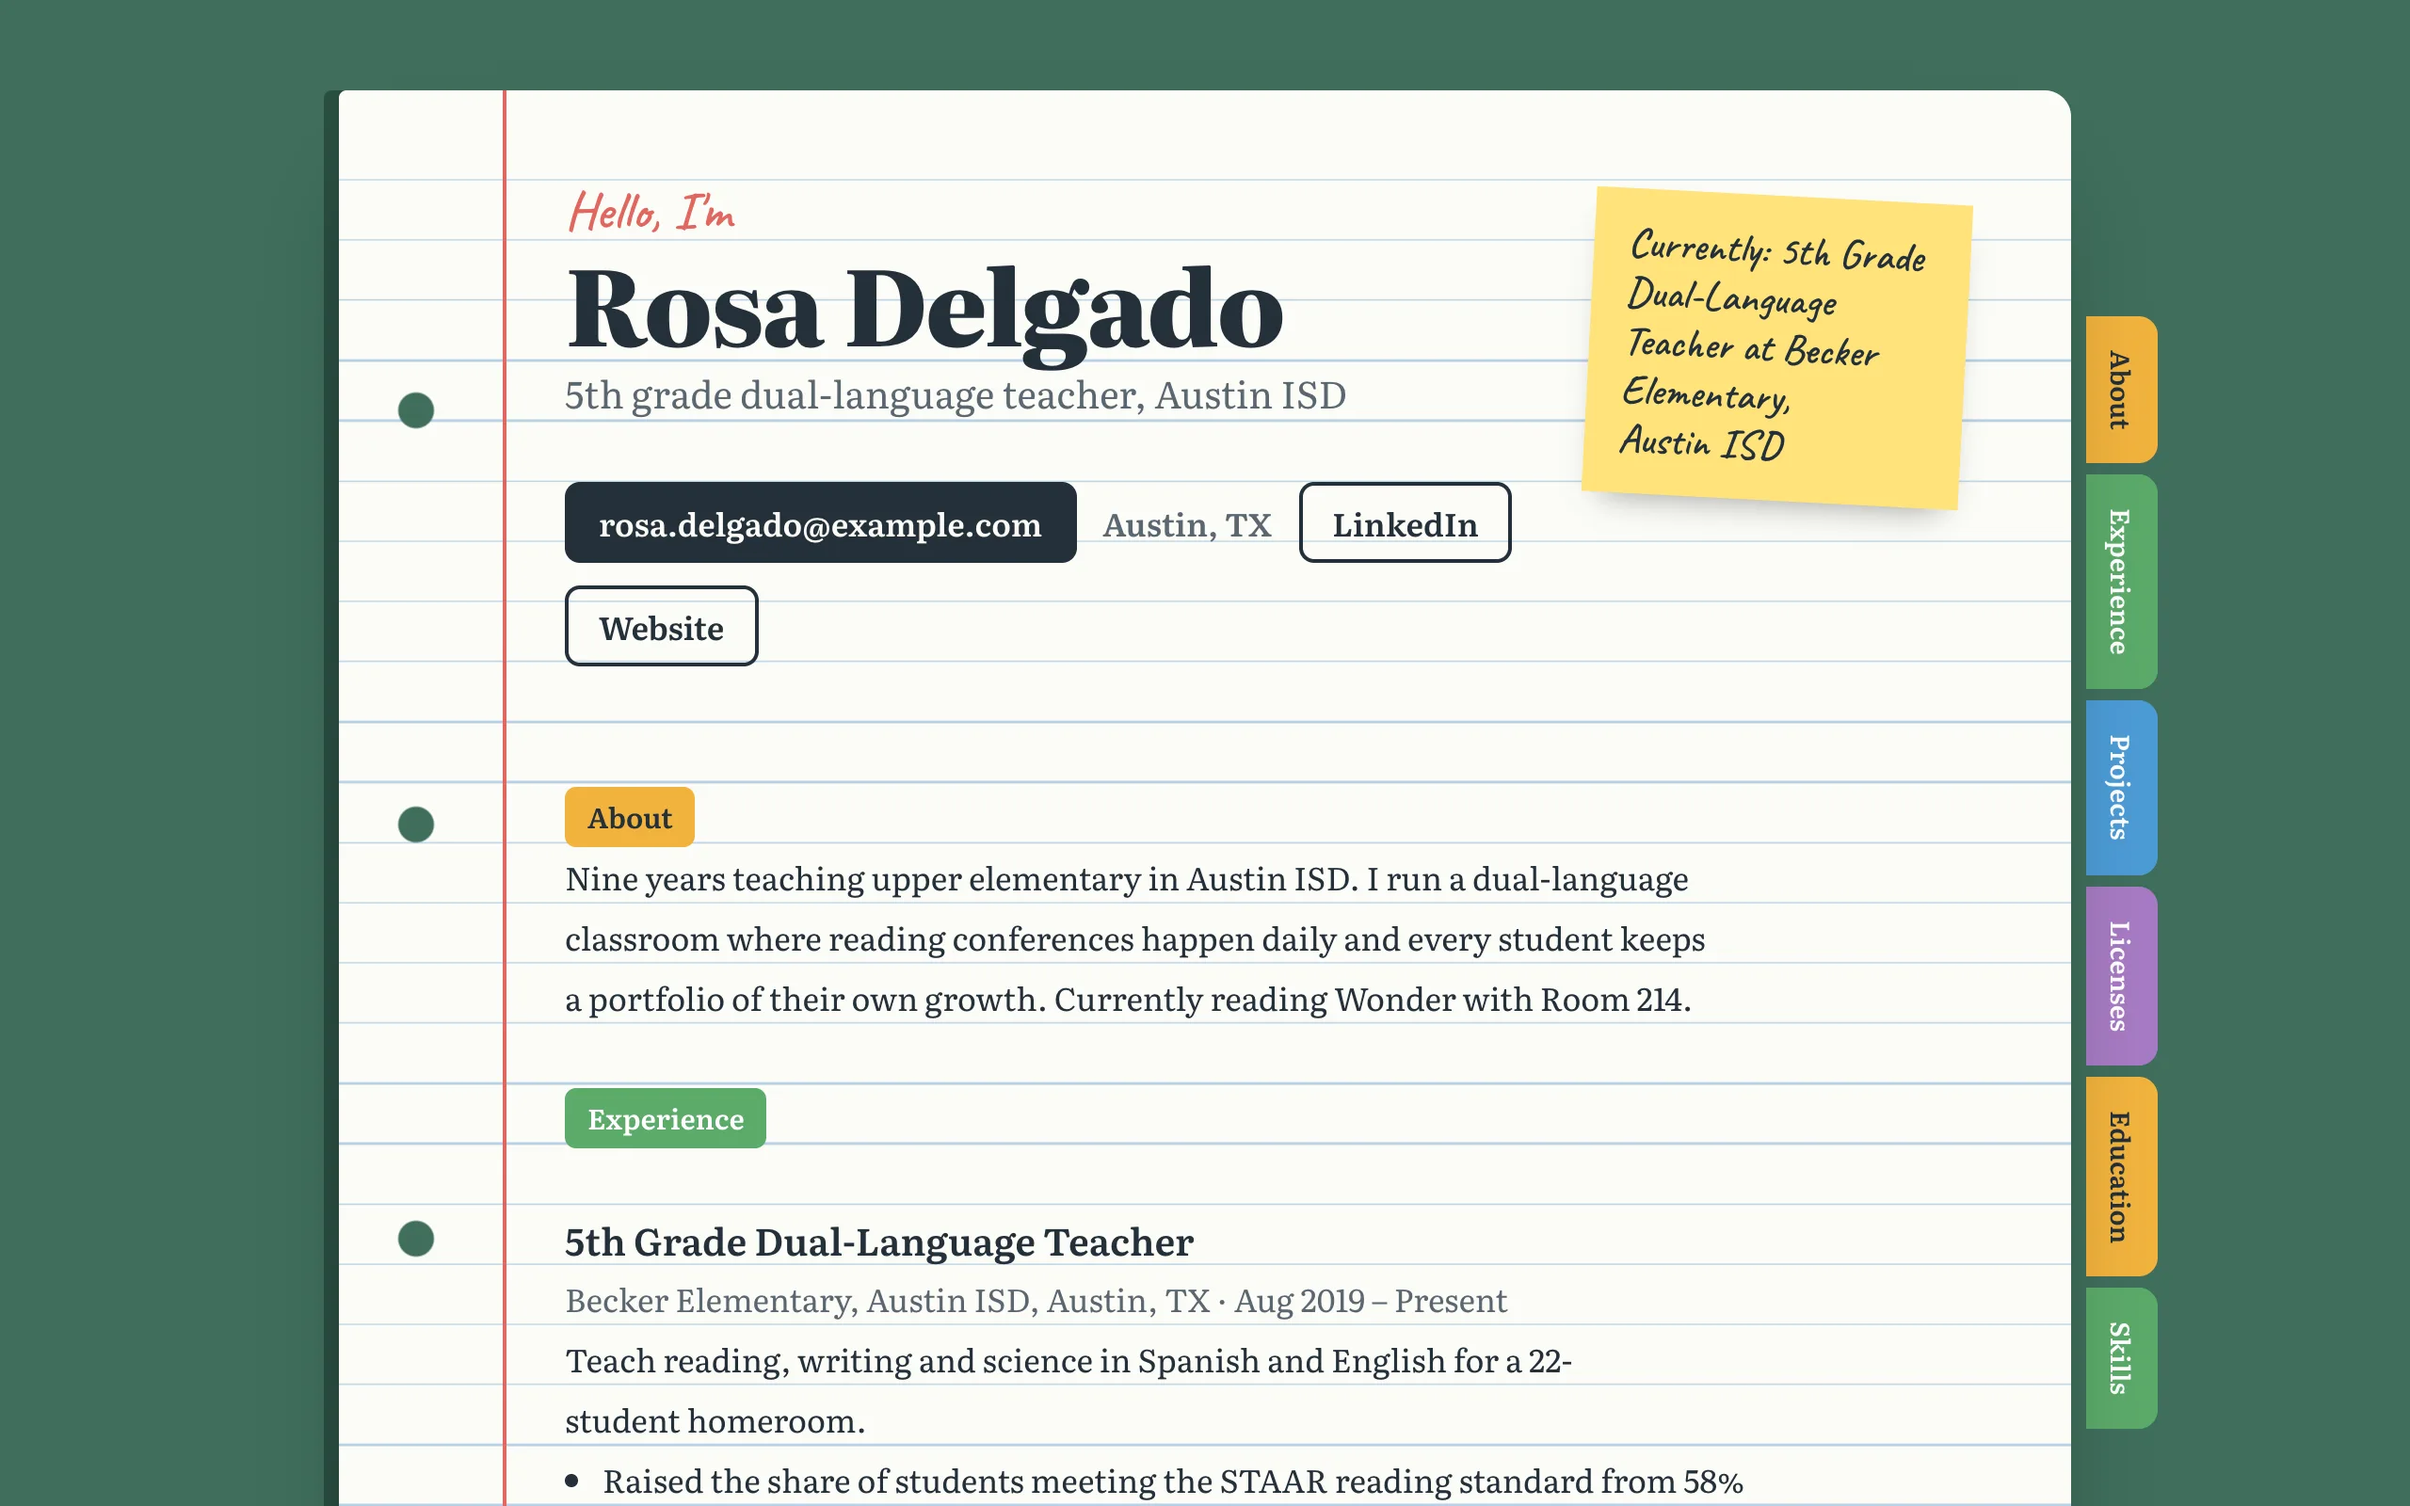
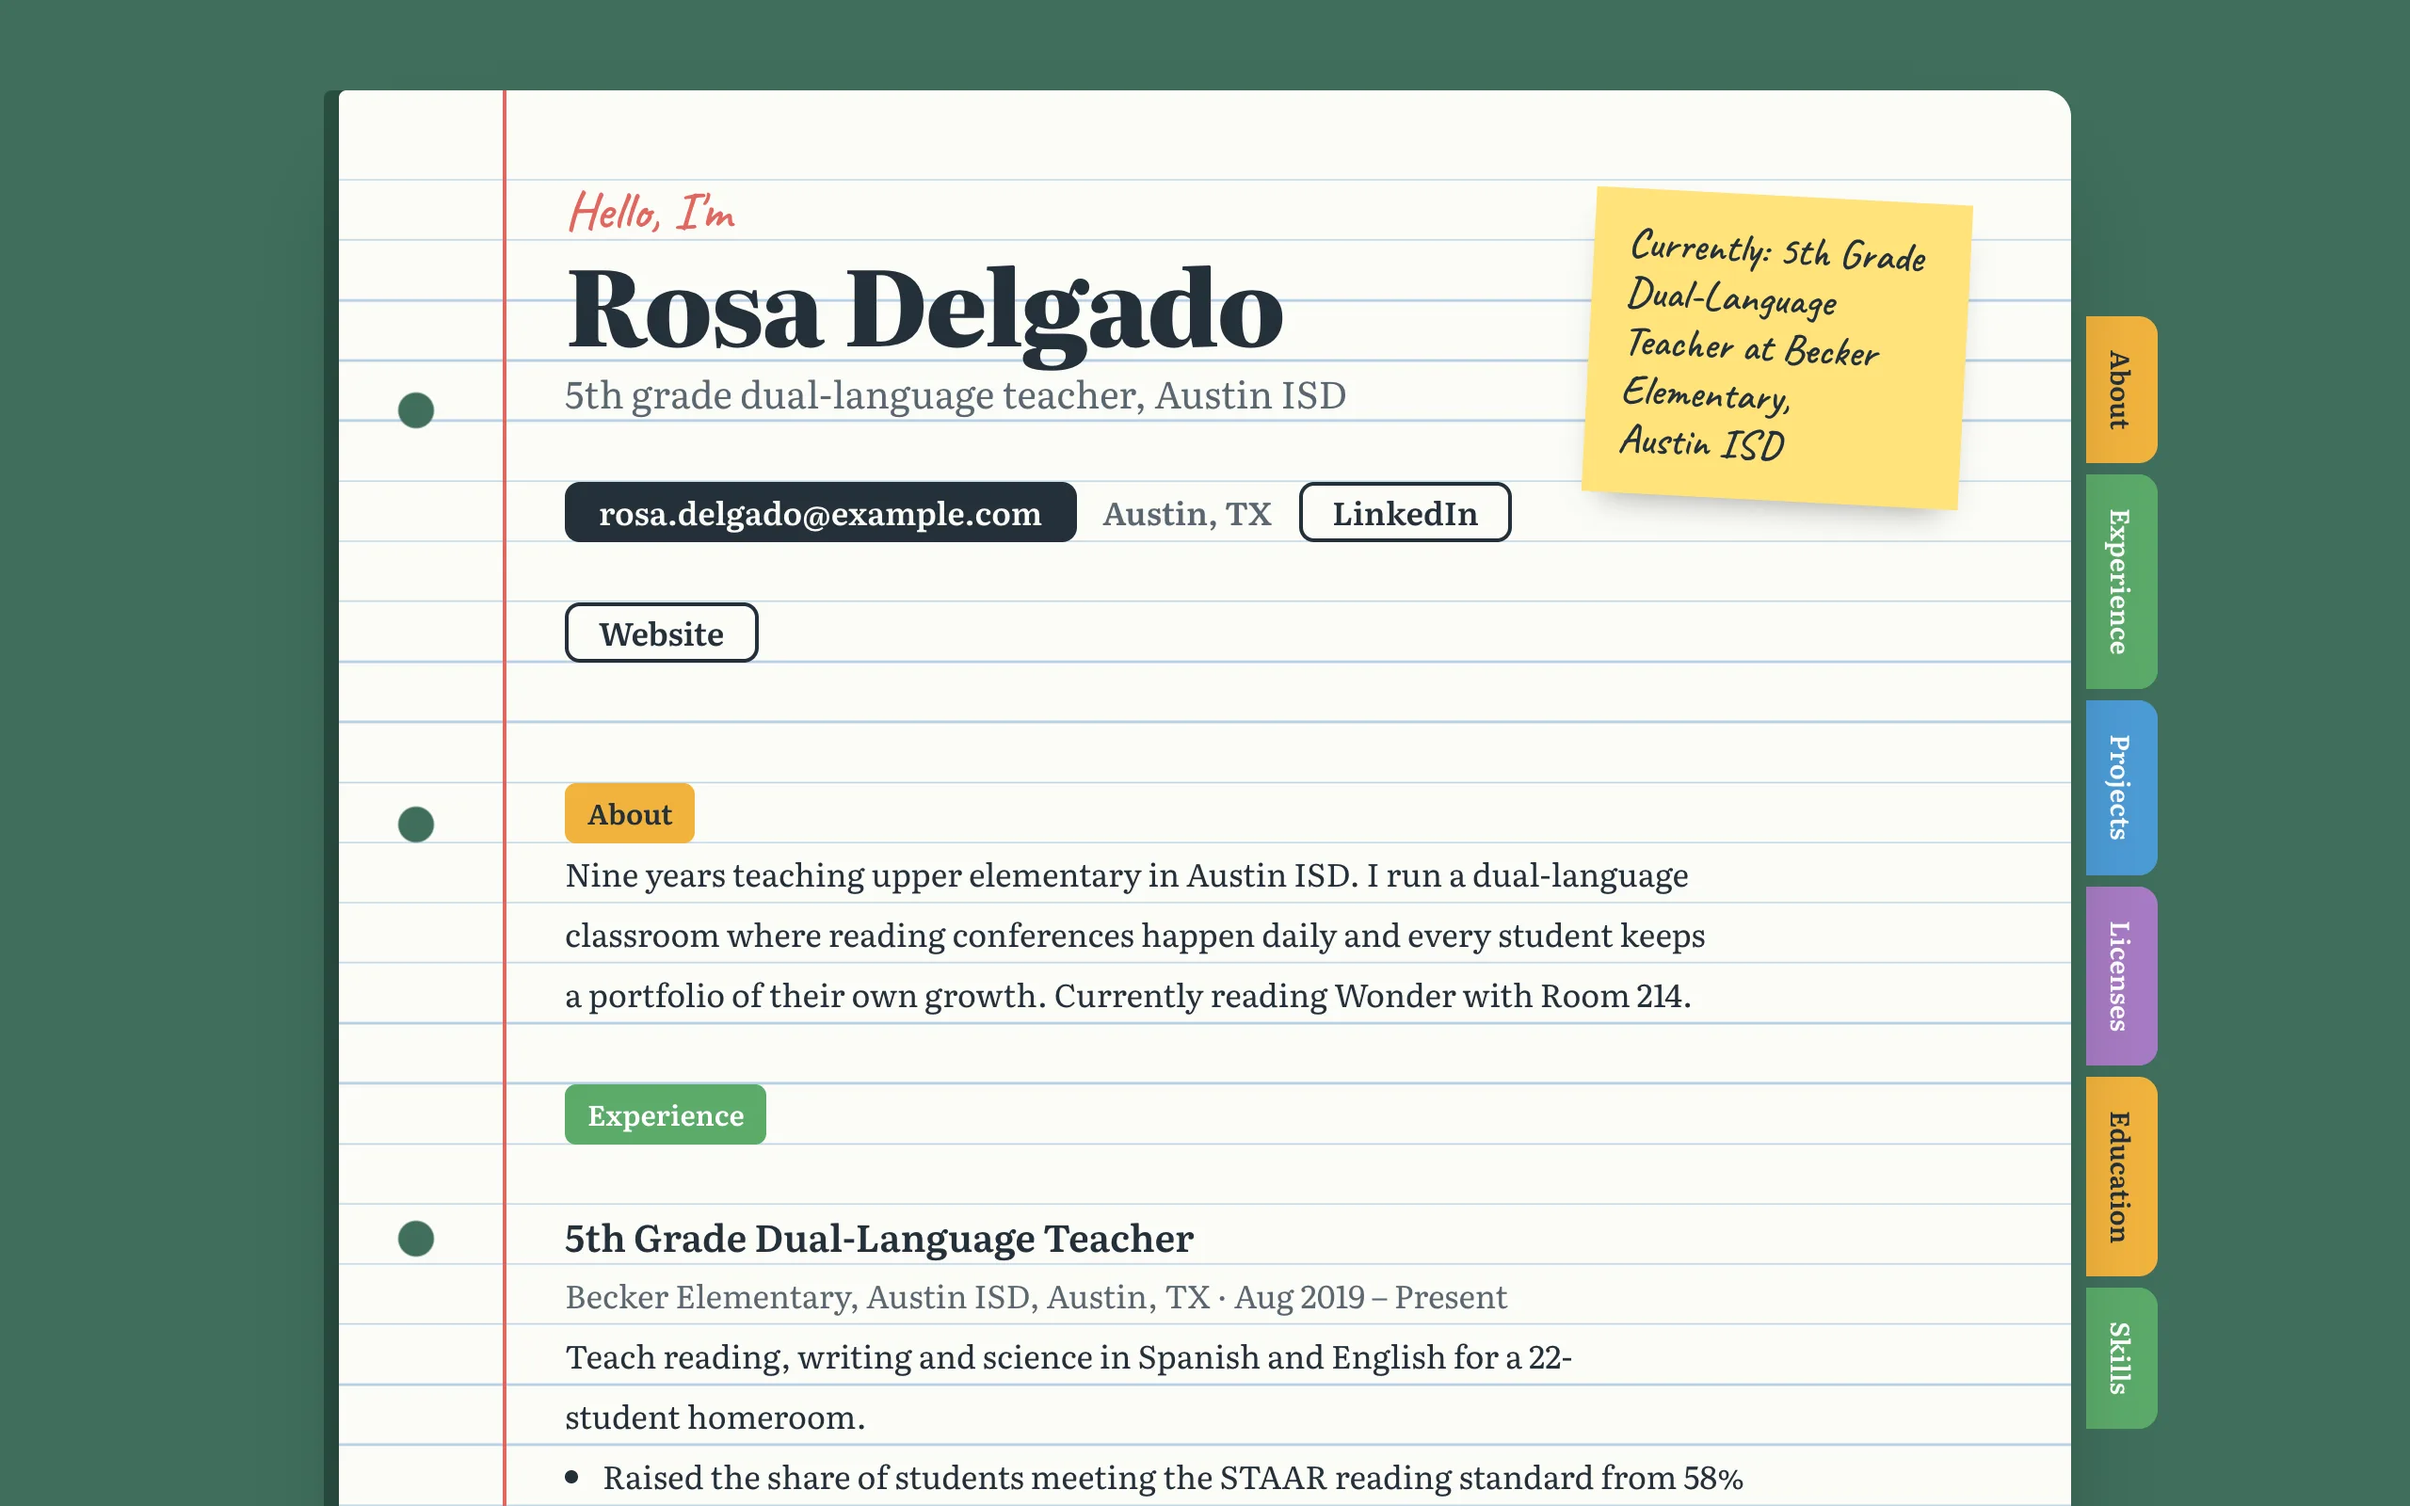
fix(templates): align Lesson Plan to its ruled lines and stop email wrapping mid-word

diff --git a/components/templates/LessonPlan.tsx b/components/templates/LessonPlan.tsx
@@ -8,6 +8,8 @@ import { TemplateFontLinks } from "./shared/TemplateFontLinks";
 // A teacher's planner: the resume is written on ruled paper clipped to a green desk, with index
 // tabs on the page edge that jump to the sections that actually render. Every line box stays 32px
 // tall, so wrapped text keeps landing on the rules (the mobile header scales by whole lines too).
+// The avatar, contact buttons and section pills are sized in whole 32px lines for the same reason,
+// and a contact label too long for its button clips with an ellipsis instead of wrapping mid-word.
 
 const LINK_REL = "ugc nofollow noopener noreferrer";
 
@@ -92,15 +94,15 @@ export const LessonPlan: React.FC<TemplateProps> = ({ content, profile }) => {
         .lp-sticky { position: absolute; right: 56px; top: 56px; width: 200px; padding: 16px 18px; transform: rotate(3deg); background: #FFE37A; font: 600 22px/26px 'Caveat', cursive; box-shadow: 0 10px 18px -10px rgba(0,0,0,.4); }
         .lp-head { padding-bottom: 32px; }
         .lp-hello { font: 600 28px/32px 'Caveat', cursive; color: #E0675F; }
-        .lp-name-row { display: flex; align-items: center; gap: 24px; }
-        .lp-avatar { flex: none; width: 88px; height: 88px; object-fit: cover; border: 3px solid #24303A; border-radius: 4px; background: #FFFFFF; }
+        .lp-name-row { display: flex; align-items: flex-start; flex-wrap: wrap; gap: 24px; }
+        .lp-avatar { flex: none; width: 96px; height: 96px; object-fit: cover; border: 3px solid #24303A; border-radius: 4px; background: #FFFFFF; }
         .lp-root h1.lp-name { font-weight: 800; font-size: 56px; line-height: 64px; letter-spacing: -.02em; }
         .lp-sub { font-size: 20px; color: #5B6770; }
-        .lp-cta { display: flex; gap: 12px; margin-top: 32px; flex-wrap: wrap; }
-        .lp-root .lp-btn { line-height: 1; padding: 13px 18px; border-radius: 8px; text-decoration: none; font-weight: 600; background: #24303A; color: #FCFCF8; overflow-wrap: anywhere; }
+        .lp-cta { display: flex; flex-wrap: wrap; gap: 32px 12px; margin-top: 32px; }
+        .lp-root .lp-btn { line-height: 32px; padding: 0 18px; border-radius: 8px; text-decoration: none; font-weight: 600; background: #24303A; color: #FCFCF8; max-width: 100%; overflow: hidden; text-overflow: ellipsis; white-space: nowrap; }
         .lp-root .lp-btn ~ .lp-btn { background: transparent; color: #24303A; box-shadow: inset 0 0 0 2px #24303A; }
-        .lp-plain { padding: 13px 2px; line-height: 1; font-weight: 600; color: #5B6770; overflow-wrap: anywhere; }
-        .lp-h2 { font-size: 15px; font-weight: 600; display: inline-block; padding: 0 12px; border-radius: 6px; line-height: 32px; margin-top: 32px; }
+        .lp-plain { padding: 0 2px; line-height: 32px; font-weight: 600; color: #5B6770; max-width: 100%; overflow: hidden; text-overflow: ellipsis; white-space: nowrap; }
+        .lp-h2 { font-size: 15px; font-weight: 600; display: block; width: fit-content; padding: 0 12px; border-radius: 6px; line-height: 32px; margin-top: 32px; }
         .lp-entry { padding-top: 32px; }
         .lp-root .lp-entry h3 { font-size: 20px; line-height: 32px; font-weight: 600; }
         .lp-meta { color: #5B6770; }
@@ -116,7 +118,9 @@ export const LessonPlan: React.FC<TemplateProps> = ({ content, profile }) => {
           .lp-tabs, .lp-sticky { display: none; }
           .lp-page { padding: 32px 24px 48px 72px; background-image: linear-gradient(90deg, transparent 55px, #E0675F 55px 57px, transparent 57px), repeating-linear-gradient(transparent 0 31px, #B9D0E6 31px 32px); }
           .lp-page::before { left: 14px; }
-          .lp-root h1.lp-name { font-size: 40px; line-height: 48px; }
+          .lp-root h1.lp-name { font-size: 40px; line-height: 64px; }
+          .lp-cta { flex-direction: column; align-items: stretch; gap: 32px; }
+          .lp-plain { padding: 0 18px; }
           .lp-cols { grid-template-columns: 1fr; }
         }
       `}</style>
@@ -146,8 +150,8 @@ export const LessonPlan: React.FC<TemplateProps> = ({ content, profile }) => {
                   <img
                     src={profile.avatar_url}
                     alt=""
-                    width={88}
-                    height={88}
+                    width={96}
+                    height={96}
                     className="lp-avatar"
                   />
                 )}
@@ -166,11 +170,12 @@ export const LessonPlan: React.FC<TemplateProps> = ({ content, profile }) => {
                         target={link.isExternal ? "_blank" : undefined}
                         rel={link.isExternal ? LINK_REL : undefined}
                         className="lp-btn"
+                        title={link.label}
                       >
                         {link.label}
                       </a>
                     ) : (
-                      <span key={link.type} className="lp-plain">
+                      <span key={link.type} className="lp-plain" title={link.label}>
                         {link.label}
                       </span>
                     ),
